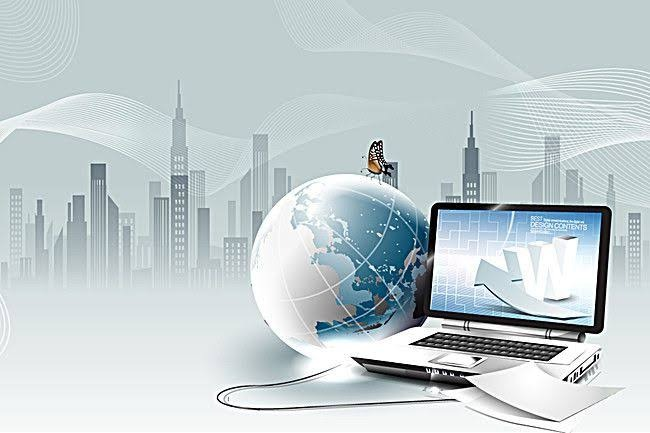
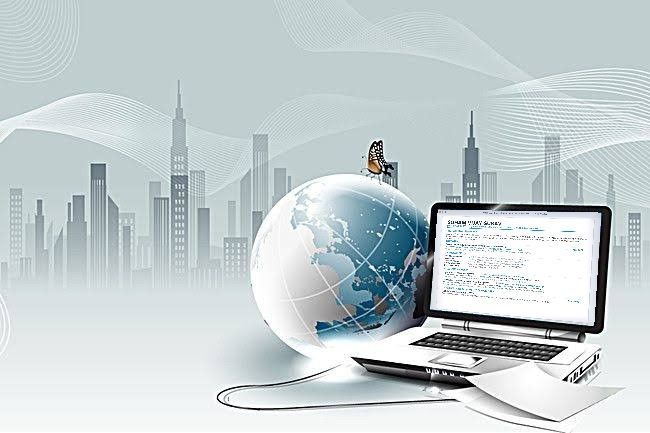
feat: display authentic resume on laptop screen in hero section with perspective warping and interactive glow

Changed region(s): [[0.6462, 0.4804, 0.9231, 0.7506]]

diff --git a/src/components/HeroSection.tsx b/src/components/HeroSection.tsx
@@ -16,6 +16,7 @@ interface HeroSectionProps {
 
 export const HeroSection: React.FC<HeroSectionProps> = ({ onOpenResume }) => {
   const [tilt, setTilt] = useState({ x: 0, y: 0 });
+  const [isHoveringScreen, setIsHoveringScreen] = useState(false);
 
   const handleMouseMove = (e: React.MouseEvent<HTMLDivElement>) => {
     const rect = e.currentTarget.getBoundingClientRect();
@@ -269,15 +270,15 @@ export const HeroSection: React.FC<HeroSectionProps> = ({ onOpenResume }) => {
                   width: '100%',
                   borderRadius: '1.15rem',
                   overflow: 'hidden',
-                  aspectRatio: '16 / 10.5',
+                  aspectRatio: '650 / 433',
                   background: 'linear-gradient(135deg, #d2dbe5 0%, #eef3f7 100%)',
                   boxShadow: 'inset 0 0 20px rgba(0,0,0,0.06)'
                 }}
               >
-                {/* Reference Image - High Fidelity Rendering */}
+                {/* Reference Image with Soham's Actual Resume on Laptop Screen */}
                 <img
                   src={heroReferenceImg}
-                  alt="Soham Vijay Gurav - Futuristic Cyber & Software Systems Reference"
+                  alt="Soham Vijay Gurav - Futuristic Cyber & Software Systems Reference with Resume on Laptop Screen"
                   style={{
                     width: '100%',
                     height: '100%',
@@ -303,7 +304,7 @@ export const HeroSection: React.FC<HeroSectionProps> = ({ onOpenResume }) => {
                     position: 'absolute',
                     top: '1rem',
                     left: '1rem',
-                    background: 'rgba(15, 23, 42, 0.7)',
+                    background: 'rgba(15, 23, 42, 0.75)',
                     backdropFilter: 'blur(10px)',
                     WebkitBackdropFilter: 'blur(10px)',
                     color: '#ffffff',
@@ -326,8 +327,64 @@ export const HeroSection: React.FC<HeroSectionProps> = ({ onOpenResume }) => {
                     }}
                     className="animate-pulse-glow"
                   />
-                  <span>FUTURE-READY TECH ARCHITECTURE</span>
+                  <span>PORTFOLIO RESUME DISPLAY · ADCET CSE</span>
                 </div>
+
+                {/* Interactive Laptop Screen Glow & Click-to-Expand Layer */}
+                <button
+                  type="button"
+                  onClick={onOpenResume}
+                  onMouseEnter={() => setIsHoveringScreen(true)}
+                  onMouseLeave={() => setIsHoveringScreen(false)}
+                  title="Click laptop display to open full interactive resume"
+                  aria-label="Open Soham Vijay Gurav Full Resume"
+                  style={{
+                    position: 'absolute',
+                    top: 0,
+                    left: 0,
+                    width: '100%',
+                    height: '100%',
+                    clipPath: 'polygon(67.2% 48.3%, 92.5% 49.0%, 91.4% 75.1%, 66.2% 71.4%)',
+                    background: isHoveringScreen 
+                      ? 'rgba(14, 165, 233, 0.22)' 
+                      : 'transparent',
+                    boxShadow: isHoveringScreen ? '0 0 25px rgba(56, 189, 248, 0.5)' : 'none',
+                    cursor: 'pointer',
+                    border: 'none',
+                    outline: 'none',
+                    padding: 0,
+                    margin: 0,
+                    transition: 'all 0.25s ease',
+                    zIndex: 15
+                  }}
+                />
+
+                {/* Hover prompt tooltip badge for laptop resume */}
+                {isHoveringScreen && (
+                  <div
+                    style={{
+                      position: 'absolute',
+                      top: '40%',
+                      right: '6%',
+                      background: 'rgba(15, 23, 42, 0.92)',
+                      color: '#ffffff',
+                      padding: '0.45rem 0.85rem',
+                      borderRadius: '0.6rem',
+                      fontSize: '0.75rem',
+                      fontWeight: 600,
+                      boxShadow: '0 8px 24px rgba(0,0,0,0.3)',
+                      border: '1px solid var(--accent-primary)',
+                      pointerEvents: 'none',
+                      zIndex: 25,
+                      animation: 'fadeIn 0.2s ease-out',
+                      display: 'flex',
+                      alignItems: 'center',
+                      gap: '0.4rem'
+                    }}
+                  >
+                    <span>Click Laptop to View Full CV</span>
+                  </div>
+                )}
               </div>
 
               {/* Floating Glass Badges around Artwork matching Soham's resume */}
